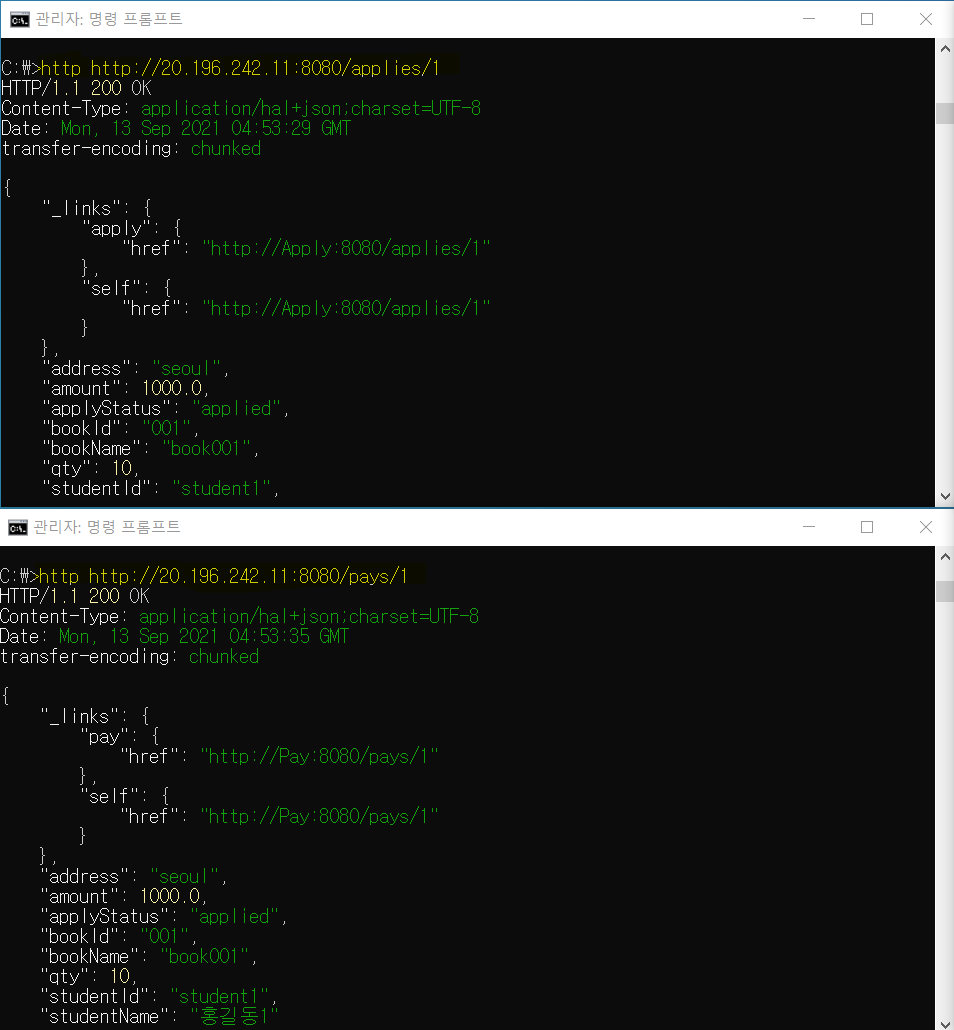
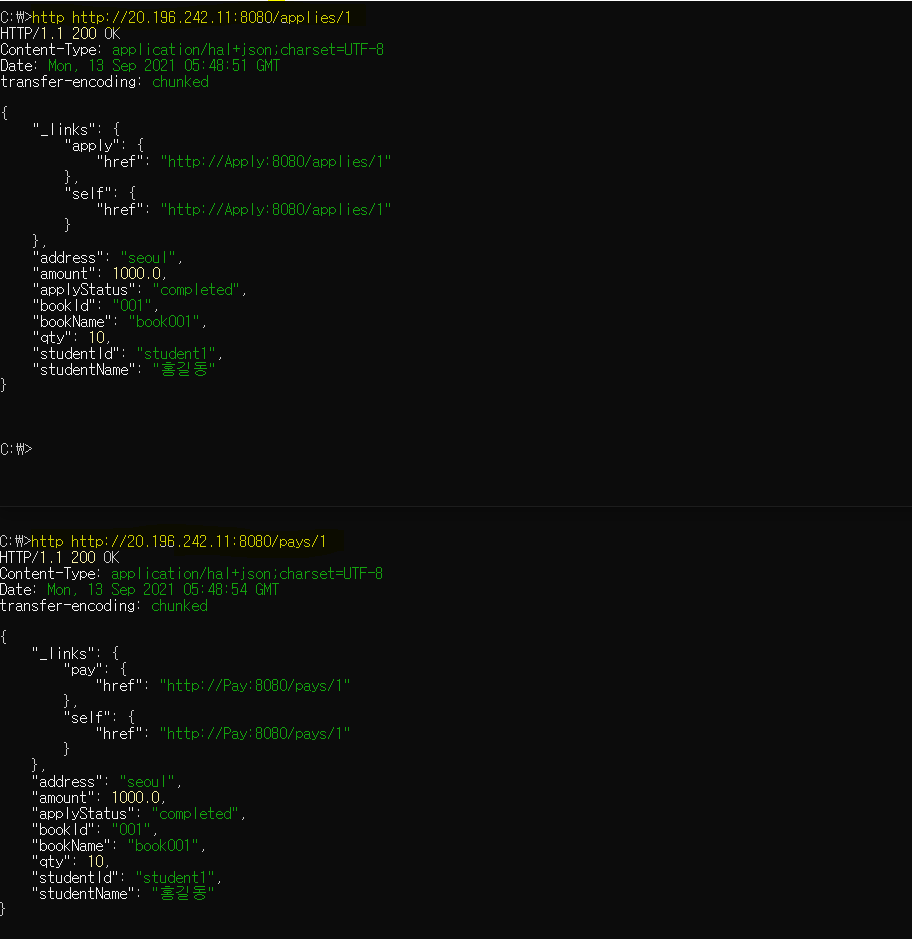
1111

diff --git a/MyPage/src/main/java/store/MyPageViewHandler.java b/MyPage/src/main/java/store/MyPageViewHandler.java
@@ -34,7 +34,7 @@ public class MyPageViewHandler {
             myPage.setBookName(applied.getBookName());
             myPage.setBookQty(applied.getQty());
             myPage.setAmount(applied.getAmount());
-            myPage.setApplyStatus("applyCompleted");
+            myPage.setApplyStatus("completed");
             myPage.setDeliveryAddress(applied.getAddress());
             // view 레파지 토리에 save
             myPageRepository.save(myPage);
@@ -55,7 +55,7 @@ public class MyPageViewHandler {
             if( myPageOptional.isPresent()) {
                  MyPage myPage = myPageOptional.get();
             // view 객체에 이벤트의 eventDirectValue 를 set 함
-                 myPage.setApplyStatus("applyCancelled");
+                 myPage.setApplyStatus("cancelled");
                 // view 레파지 토리에 save
                  myPageRepository.save(myPage);
                 }
@@ -75,7 +75,7 @@ public class MyPageViewHandler {
             if( myPageOptional.isPresent()) {
                  MyPage myPage = myPageOptional.get();
                 // view 객체에 이벤트의 eventDirectValue 를 set 함
-                 myPage.setApplyStatus("payCompleted");
+                 myPage.setApplyStatus("completed");
                 // view 레파지 토리에 save
                  myPageRepository.save(myPage);
                 }
@@ -95,7 +95,7 @@ public class MyPageViewHandler {
             if( myPageOptional.isPresent()) {
                  MyPage myPage = myPageOptional.get();
                 // view 객체에 이벤트의 eventDirectValue 를 set 함
-                myPage.setApplyStatus("payCancelled");
+                myPage.setApplyStatus("cancelled");
                 // view 레파지 토리에 save
                  myPageRepository.save(myPage);
                 }
@@ -115,7 +115,7 @@ public class MyPageViewHandler {
             if( myPageOptional.isPresent()) {
                  MyPage myPage = myPageOptional.get();
                 // view 객체에 이벤트의 eventDirectValue 를 set 함
-                myPage.setApplyStatus("deliveryCompleted");
+                myPage.setApplyStatus("completed");
                 // view 레파지 토리에 save
                  myPageRepository.save(myPage);
                 }
@@ -135,7 +135,7 @@ public class MyPageViewHandler {
             if( myPageOptional.isPresent()) {
                  MyPage myPage = myPageOptional.get(); 
                 // view 객체에 이벤트의 eventDirectValue 를 set 함
-                myPage.setApplyStatus("deliveryCancelled");
+                myPage.setApplyStatus("cancelled");
                 // view 레파지 토리에 save
                  myPageRepository.save(myPage);
                 }

diff --git a/Pay/src/main/java/store/Pay.java b/Pay/src/main/java/store/Pay.java
@@ -29,7 +29,7 @@ public class Pay {
         // kafka publish
         PayCompleted payCompleted = new PayCompleted();
         BeanUtils.copyProperties(this, payCompleted);
-        payCompleted.setApplyStatus("payCompleted"); // modify by jjm
+        payCompleted.setApplyStatus("completed"); // modify by jjm
         payCompleted.publishAfterCommit();
 
         // modify by jjm
@@ -60,7 +60,7 @@ public class Pay {
         // kafka publish
         PayCancelled payCancelled = new PayCancelled();
         BeanUtils.copyProperties(this, payCancelled);
-        payCancelled.setApplyStatus("deliveryCancelled"); // 배송 완료 상태로 전달
+        payCancelled.setApplyStatus("cancelled"); // 배송 완료 상태로 전달
         payCancelled.publish();
 
         // req/res 패턴 처리 

diff --git a/Delivery/src/main/java/store/Delivery.java b/Delivery/src/main/java/store/Delivery.java
@@ -25,7 +25,7 @@ public class Delivery {
     public void onPostPersist(){
         Deliveried deliveried = new Deliveried();
         BeanUtils.copyProperties(this, deliveried);
-        deliveried.setApplyStatus("deliveryCompleted");
+        deliveried.setApplyStatus("completed");
         deliveried.publishAfterCommit();
 
         // DeliveryCancelled deliveryCancelled = new DeliveryCancelled();
@@ -38,7 +38,7 @@ public class Delivery {
     public void onPostUpdate(){
         DeliveryCancelled deliveryCancelled = new DeliveryCancelled();
         BeanUtils.copyProperties(this, deliveryCancelled);
-        deliveryCancelled.setApplyStatus("deliveryCancelled");
+        deliveryCancelled.setApplyStatus("cancelled");
         deliveryCancelled.publishAfterCommit();
     }
 

diff --git a/Apply/src/main/java/store/Apply.java b/Apply/src/main/java/store/Apply.java
@@ -31,7 +31,7 @@ public class Apply {
         // kafka에 push
         Applied applied = new Applied();
         BeanUtils.copyProperties(this, applied);
-        applied.setApplyStatus("applyCompleted");
+        applied.setApplyStatus("completed");
         // applied.publishAfterCommit(); // modify by jm
         applied.publish(); 
         
@@ -52,7 +52,7 @@ public class Apply {
         // kafka에 push
         ApplyCancelled applyCancelled = new ApplyCancelled();
         BeanUtils.copyProperties(this, applyCancelled);
-        applyCancelled.setApplyStatus("applyCancelled");
+        applyCancelled.setApplyStatus("cancelled");
         applyCancelled.publishAfterCommit();
     }
     

diff --git a/Delivery/src/main/java/store/PolicyHandler.java b/Delivery/src/main/java/store/PolicyHandler.java
@@ -29,7 +29,7 @@ public class PolicyHandler{
         delivery.setBookName(payCompleted.getBookName());
         delivery.setQty(payCompleted.getQty());
         delivery.setAmount(payCompleted.getAmount());
-        delivery.setApplyStatus("deliveryCompleted");
+        delivery.setApplyStatus("completed");
         delivery.setDeliveryAddress(payCompleted.getAddress());
         deliveryRepository.save(delivery);
     

diff --git a/Pay/src/main/java/store/PolicyHandler.java b/Pay/src/main/java/store/PolicyHandler.java
@@ -33,7 +33,7 @@ public class PolicyHandler{
             pay.setBookName(applyCancelled.getBookName());
             pay.setQty(applyCancelled.getQty());
             pay.setAmount(applyCancelled.getAmount());
-            pay.setApplyStatus("payCancelled");
+            pay.setApplyStatus("cancelled");
             pay.setAddress(applyCancelled.getAddress());
 
             // 레파지 토리에 save

diff --git a/README.md b/README.md
@@ -262,7 +262,7 @@ public class Apply {
     public void onPostPersist(){
         Applied applied = new Applied();
         BeanUtils.copyProperties(this, applied);
-        applied.setApplyStatus("applyCompleted");
+        applied.setApplyStatus("completed");
         applied.publish(); 
         
         Pay pay = new Pay();
@@ -363,7 +363,7 @@ public interface ApplyRepository extends PagingAndSortingRepository<Apply, Long>
 
 **Apply서비스 교재 신청**
 ```
-http POST http://20.196.242.11:8080/applies studentId="student1" studentName="홍길동1" qty=10 amount=1000 applyStatus="applied" address="seoul" bookId="001" bookName="book001"
+http POST http://20.196.242.11:8080/applies studentId="student1" studentName="홍길동" qty=10 amount=1000 applyStatus="completed" address="seoul" bookId="001" bookName="book001"
 ```
 
 ![증빙1](https://github.com/jinmojeon/elearningStudentApply/blob/main/Images/2-1-ddd-reg.png)
@@ -512,7 +512,7 @@ public class PayServiceImpl implements PayService {
         // kafka publish
         PayCompleted payCompleted = new PayCompleted();
         BeanUtils.copyProperties(this, payCompleted);
-        payCompleted.setApplyStatus("payCompleted");
+        payCompleted.setApplyStatus("completed");
         payCompleted.publishAfterCommit();  
     }  
 ```
@@ -536,7 +536,7 @@ public class PolicyHandler{
         delivery.setBookName(payCompleted.getBookName());
         delivery.setQty(payCompleted.getQty());
         delivery.setAmount(payCompleted.getAmount());
-        delivery.setApplyStatus("deliveryCompleted");
+        delivery.setApplyStatus("completed");
         delivery.setDeliveryAddress(payCompleted.getAddress());
         deliveryRepository.save(delivery);
     
@@ -822,7 +822,7 @@ hystrix:
     public void onPostPersist(){
         PayCompleted payCompleted = new PayCompleted();
         BeanUtils.copyProperties(this, payCompleted);
-        payCompleted.setApplyStatus("payCompleted");
+        payCompleted.setApplyStatus("completed");
         payCompleted.publishAfterCommit();
 
         try {
